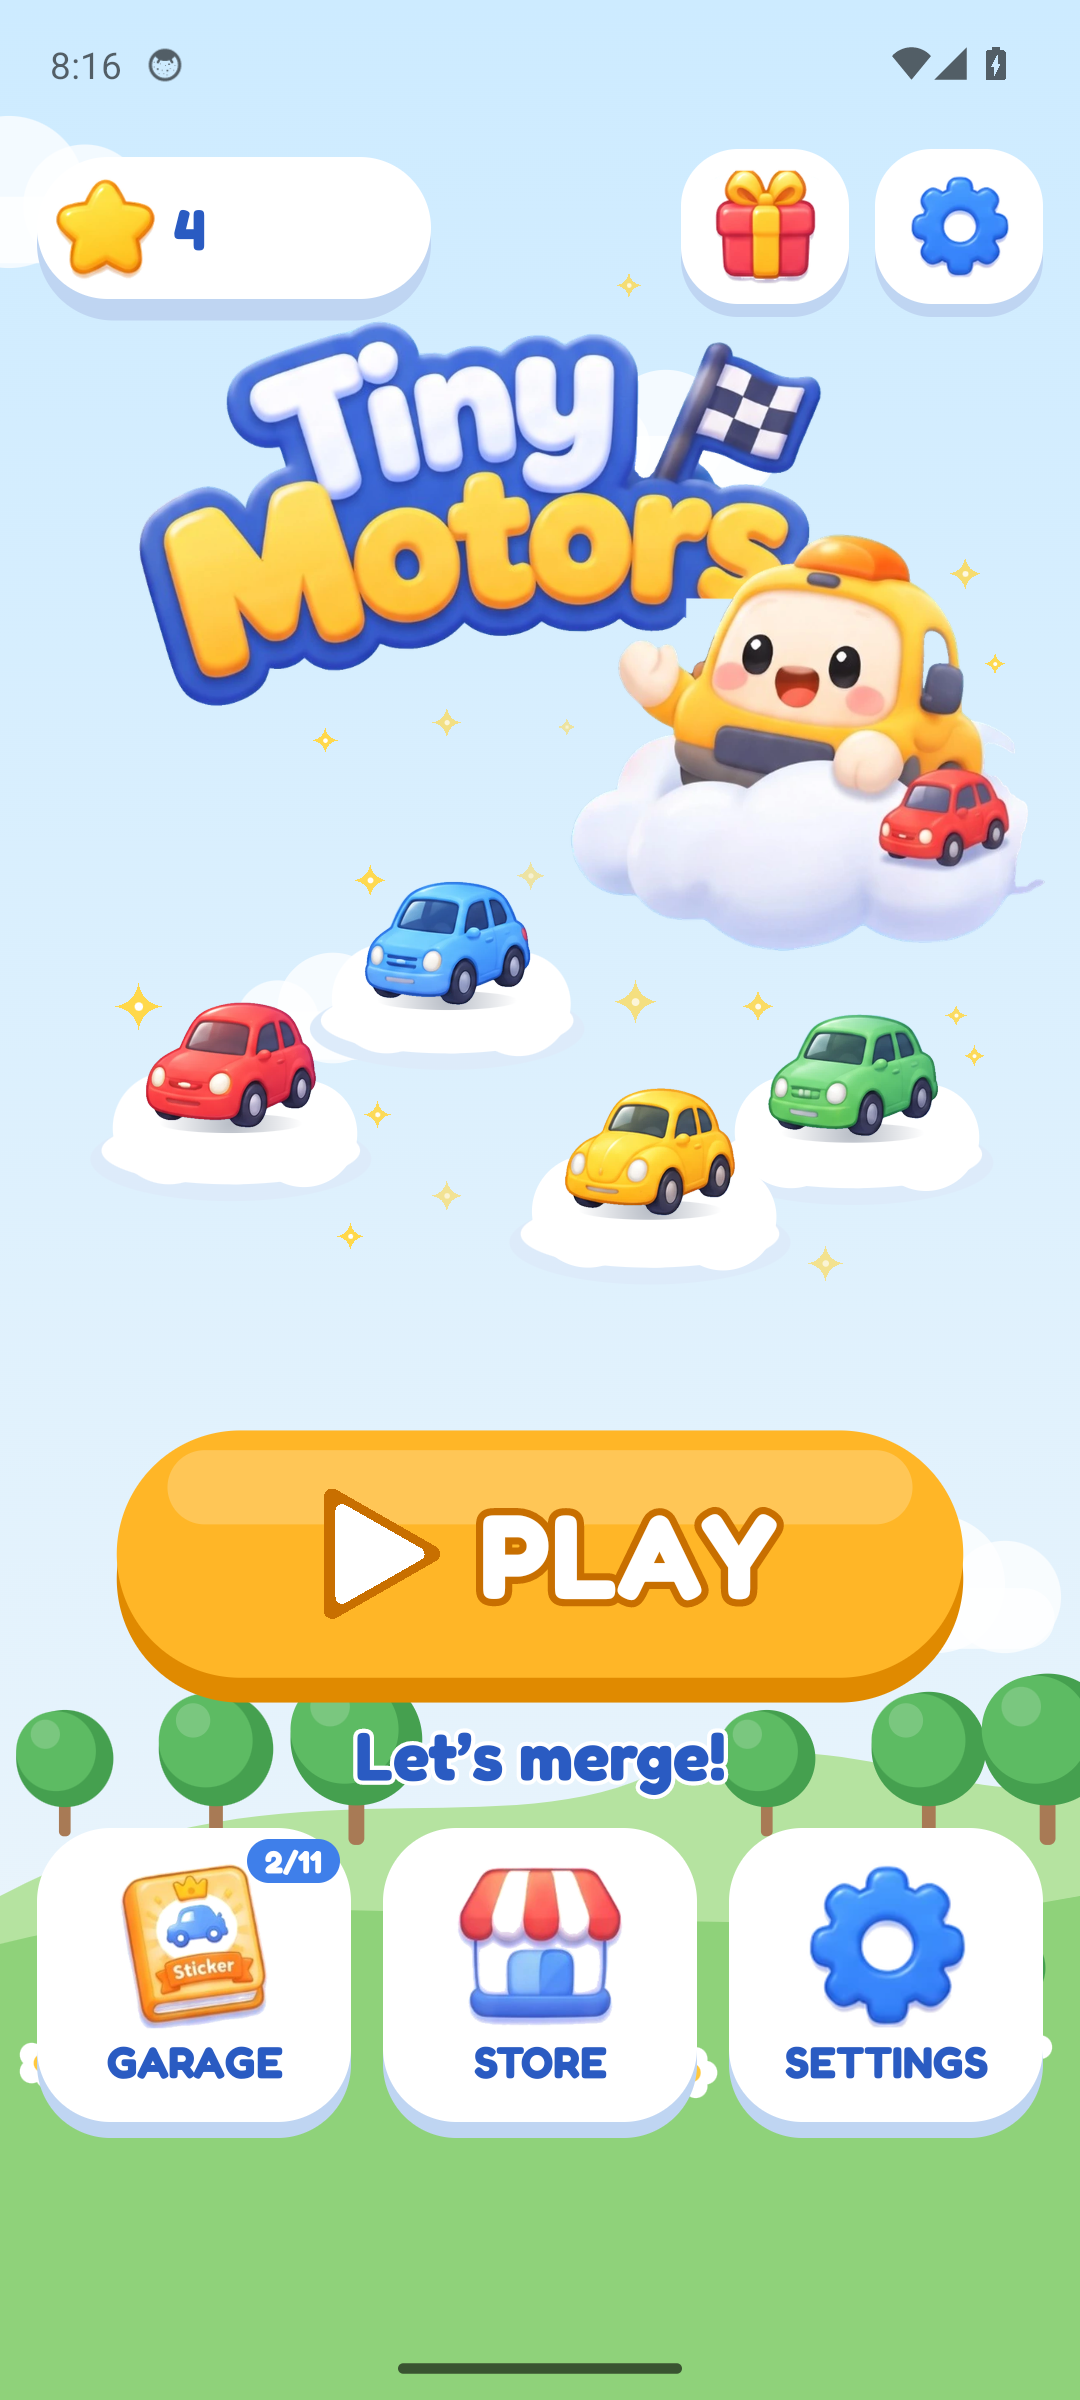
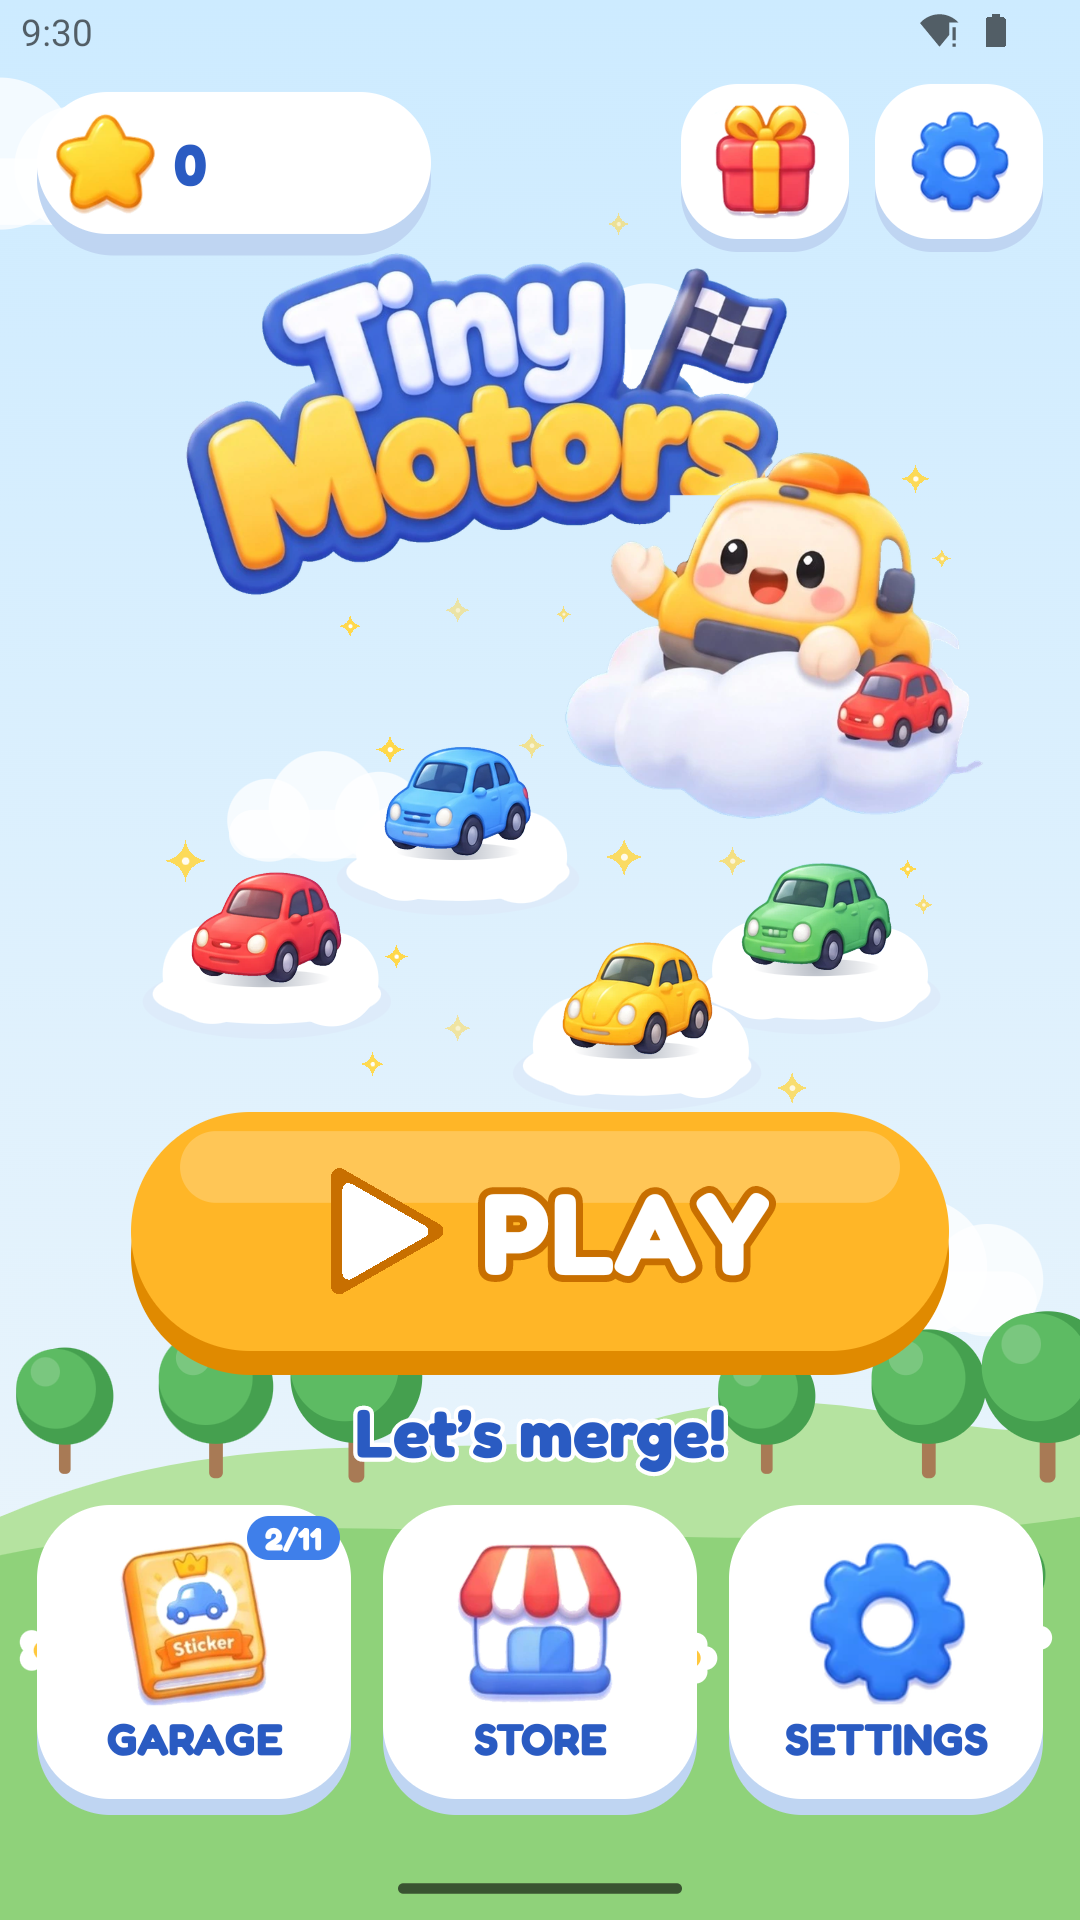
Play Store screenshots at 1080x1920 (9:16) with full boards; screenshot workflow is manual
The old 1080x2400 screenshots break Play's 2:1 limit. New set: home, busy board, new car
ribbon, garage, themes, daily gift, parent settings. Taken in airplane mode, so no test ads.

Claude-Session: https://claude.ai/code/session_01TABBkMBqBzvjsnbFysiC9Y

diff --git a/STORE_LISTING.md b/STORE_LISTING.md
@@ -102,10 +102,16 @@ Check it against Google's current AdMob guidance before you submit
 * Ads declaration: **Yes, my app contains ads.**
 * News app: No. COVID-19 app: No. Government app: No. Financial features: None. Health: No.
 
-## Screenshots to take (phone, portrait)
+## Screenshots (phone, 1080 × 1920, ready to upload)
 
-1. Home screen with the logo, Towy and the driving cars (`store/screenshots/1_home.png`).
-2. Game board mid-play with several car levels (`2_game.png`).
-3. The Garage sticker book (`3_garage.png`).
-4. The Store with board themes (`4_store_themes.png`).
-5. A "New car!" ribbon and the Hypercar celebration.
+Google Play needs 2–8 phone screenshots, and the long side may be at most twice the short side
+(so 1080 × 2400 is rejected; these are 9:16). Taken on an emulator in airplane mode, so no test
+ads show. Re-take them with `scripts/store-screenshots.sh` (or the "Store screenshots" workflow).
+
+1. `store/screenshots/1_home.png`: Home screen with the logo and Towy
+2. `2_game.png`: a busy board mid-game
+3. `3_new_car.png`: the "New car unlocked!" ribbon
+4. `4_garage.png`: the Garage sticker book
+5. `5_store_themes.png`: board themes in the Store
+6. `6_daily_gift.png`: the daily present
+7. `7_parent_settings.png`: parent settings
